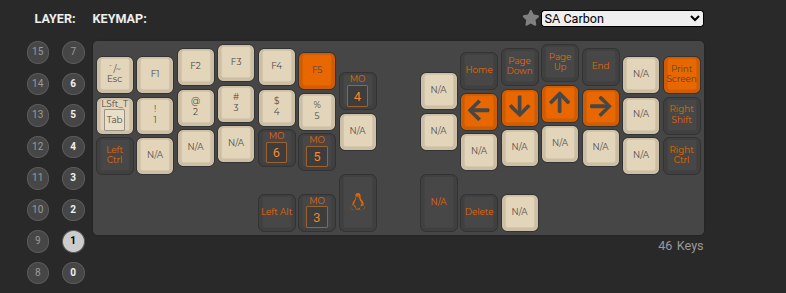
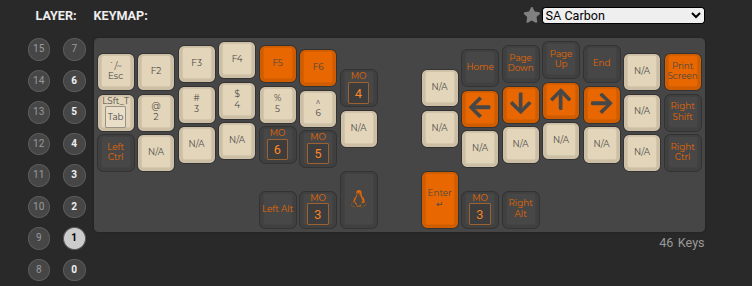
Новая версия с цифрами как на штатной клавиатуре

Changed region(s): [[0.0306, 0.0, 0.9481, 0.8671], [0.0306, 0.028, 0.2141, 0.0839], [0.0306, 0.8951, 0.1223, 0.979]]

diff --git a/README.md b/README.md
@@ -4,7 +4,11 @@
 
 Слой с символами почти полностью взят из дефолтной настройки. Так же слой 1 где распаложены цифры и стрелки
 
-# v2.0
+# Version 3
+
+Особенность версии 3 цифры в слое 2 адаптированы как для клавиатуры штатной. 
+Немного переделано расположение символов.
+Из за переноса цифр в других слоях тоже появились изменения.
 
 референс на раскладки
 - https://habr.com/ru/articles/566784/
@@ -27,3 +31,7 @@ __screenshots__
 тренажеры:
 - https://stamina-online.com/ru/lessons/ru
 - https://www.typingstudy.com/ru-russian-3/
+
+страница для настройки клавиатуры:
+
+https://config.qmk.fm/#/crkbd/rev4_1/standard/LAYOUT_split_3x6_3_ex2
